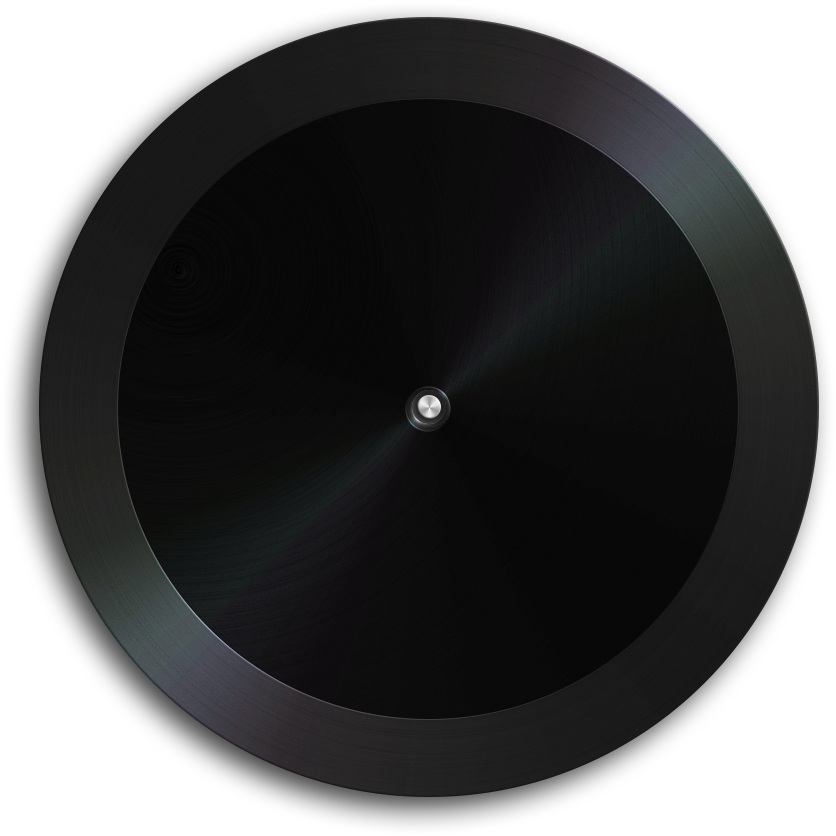
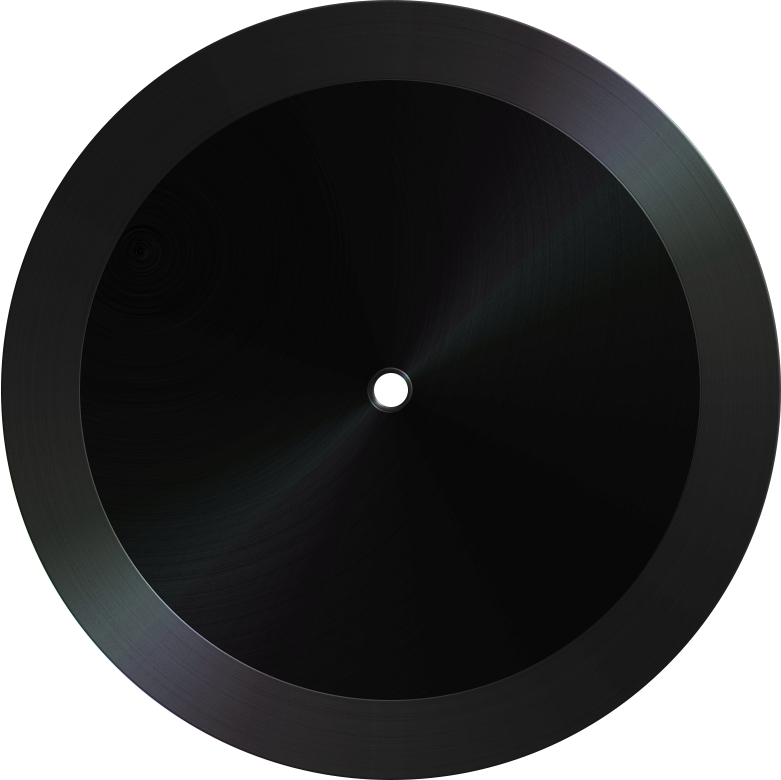
界面 - [ update Tips & MusicView ]

diff --git a/src/renderer/views/SongView.vue b/src/renderer/views/SongView.vue
@@ -8,24 +8,26 @@
 
       <div style="width:40%; height:100%; float:left; position:relative;">
         <div style="width:100%; margin:38px 0 28px; box-sizing:border-box;">
-          <div :class="{'active' : $store.state.Music.playStatus}" class="disk-bg">
-            <img v-lazy="'http://p1.music.126.net/Qgrn5ptCMLdd9MAngNWURA==/17868163463382870.jpg?param=130y130'" class="glass-bg play-list-img" />
+          <div class="box-show" style="width:320px; height:320px; left:-8px; margin:12px 28px; display:inline-block; border-radius:50%;">
+            <div :class="{'active' : $store.state.Music.playStatus}" class="disk-bg">
+              <img v-lazy="'http://p1.music.126.net/Qgrn5ptCMLdd9MAngNWURA==/17868163463382870.jpg?param=130y130'" class="glass-bg play-list-img" />
+            </div>
           </div>
         </div>
         <div :class="{'active' : !$store.state.Music.playStatus}" id="playPointer">
           <img src="../../../static/images/default/Neo-Player.png" style="width:100%;"/>
         </div>
-        <div style="width:100%; text-align:center;">
-          <div class="super-btn-out" style="width:68px; height:29px; margin:10px 1px 0;">
+        <div style="width:88%; text-align:center;">
+          <div class="super-btn-out" style="width:68px; height:29px; margin:10px 8px 0;">
             <span class="super-btn-in mh-if non-colloection" style="width:60px; height:20px; line-height:21px;"> 喜欢</span>
           </div>
-          <div @click="showModal('AddAlbum')" class="super-btn-out" style="width:68px; height:29px; margin:10px 1px 0;">
+          <div @click="showModal('AddAlbum')" class="super-btn-out" style="width:68px; height:29px; margin:10px 8px 0;">
             <span class="super-btn-in mh-if collection-music" style="width:60px; height:20px; line-height:21px;"> 收藏</span>
           </div>
-          <div class="super-btn-out" style="width:68px; height:29px; margin:10px 1px 0;">
+          <div class="super-btn-out" style="width:68px; height:29px; margin:10px 8px 0;">
             <span class="super-btn-in mh-if download" style="width:60px; height:20px; line-height:21px;"> 下载</span>
           </div>
-          <div @click="showModal('Share')" class="super-btn-out" style="width:68px; height:29px; margin:10px 1px 0;">
+          <div @click="showModal('Share')" class="super-btn-out" style="width:68px; height:29px; margin:10px 8px 0;">
             <span class="super-btn-in mh-if share" style="width:60px; height:20px; line-height:21px;"> 分享</span>
           </div>
         </div>
@@ -36,7 +38,7 @@
           <p style="font-size:22px;">The Name of the Song</p>
           <p style="line-height:1.6em; font-size:15px;">sdvsdvsdbdfbhusibhfdbukvsodvsdvsdrhukvfsdbhifsdvbuigesdd</p>
         </div>
-        <div style="width:100%; height:438px; padding:38px 52px 38px 68px; box-sizing:border-box; background:url(../../../static/images/default/lyric-bg.png) no-repeat; background-size:100% 100%;">
+        <div style="width:100%; height:438px; padding:38px 62px 38px 68px; box-sizing:border-box; background:url(../../../static/images/default/lyric-bg.png) no-repeat; background-size:100% 100%;">
           <div style="width:100%; height:100%; overflow:auto;">
             <div style="width:100%; height:1888px; background:lightgreen"></div>
           </div>
@@ -96,21 +98,20 @@ export default {
 
 <style scoped>
   #playPointer {
-    width:138px; top:18px; left:-3px; display:inline-block; position:absolute;
+    width:138px; top:8px; left:-23px; display:inline-block; position:absolute;
     transform-origin:12.8px 12.8px;
     transform:rotate(-13deg);
-    -webkit-transition: transform 0.38s;
+    transition: transform 0.38s;
   }
   #playPointer.active {
     transform:rotate(-38deg);
   }
 
   .play-list-img {
-    width:70%; height:70%; margin:44px 52px; border-radius:50%;
-    display:inline-block;
+    width:70%; height:70%; top:50%; left:50%; position:absolute; border-radius:50%; transform:translate(-50%, -50%);
   }
   .disk-bg {
-    width:320px; height:320px; left:-8px; margin:12px 28px; display:inline-block; background:url(../../../static/images/default/disk.png) no-repeat; background-size:100% 100%; border-radius:50%;
+    width:100%; height:100%; position:relative; background:url(../../../static/images/default/disk.png) no-repeat; background-size:100% 100%; border-radius:50%;
   }
   .disk-bg.active {
     animation: goCircle 18s infinite linear; /*匀速 循环*/

diff --git a/src/renderer/components/Tips/Tips.vue b/src/renderer/components/Tips/Tips.vue
@@ -1,10 +1,12 @@
 <template>
-  <div class="glass-bg">
-    <p style="line-height:35px;">
+  <div :class="$store.state.Tips.tipsType" class="glass-bg box-show">
+    <div id="tipsIcon">
       <i class="mh-if gear"></i>
+    </div>
+    <p style="display:inline-block; line-height:36px;">
       <span style="color:#AAA; letter-spacing:1.3px;">{{ $store.state.Tips.tips }}</span>
     </p>
-    <i @click="closeTips">×</i>
+    <i @click="closeTips" class="close-button">×</i>
   </div>
 </template>
 
@@ -14,7 +16,7 @@ export default {
 
   methods: {
     closeTips () {
-      this.$store.commit('SHOW_TIPS')
+      this.$store.commit('SHOW_TIPS', {})
     }
   }
 }
@@ -22,16 +24,30 @@ export default {
 
 <style scoped>
   div.glass-bg {
-    height:38px; top:68px; right:18px; padding:0 25px 0 12px; position:fixed; z-index:9999; box-sizing:border-box;
+    height:38px; top:68px; right:18px; padding:0 28px 0 0; position:fixed; z-index:9999; box-sizing:border-box;
+  }
+  div.glass-bg.info {
     box-shadow:0 0 2px #00d8ff, inset 0 2px 1px -1px rgba(255, 255, 255, 0.2), inset 0 -2px 1px -1px rgba(0, 0, 0, 0.2), 0 12px 12px rgba(0, 0, 0, 0.5), 0 4px 6px rgba(0, 0, 0, 0.3), inset 0 0 0 1px #272727;
   }
-
-  .mh-if.gear {
-    margin-right:5px; font-size:18px; color:#00d8ff;
+  div.glass-bg.warning {
+    box-shadow:0 0 2px #FF92C3, inset 0 2px 1px -1px rgba(255, 255, 255, 0.2), inset 0 -2px 1px -1px rgba(0, 0, 0, 0.2), 0 12px 12px rgba(0, 0, 0, 0.5), 0 4px 6px rgba(0, 0, 0, 0.3), inset 0 0 0 1px #272727;
   }
 
-  div > i {
-    top:-3px; right:1px; position:absolute; font-size:23px; color:#AAA; cursor:pointer;
+  #tipsIcon {
+    width:38px; height:38px; margin-right:8px; display:inline-block; border-radius:4px 4px 6px 4px; line-height:37px; text-align:center; box-shadow:inset -2px 0 2px -2px #444, 2px 0 2px -2px #000;
+  }
+  #tipsIcon > .gear {
+    font-size:18px;
+  }
+  .glass-bg.info #tipsIcon > .gear {
+    color:#00d8ff;
+  }
+  .glass-bg.warning #tipsIcon > .gear {
+    color:#FF92C3;
+  }
+
+  div > i.close-button {
+    top:-3px; right:2px; position:absolute; font-size:23px; color:#AAA; cursor:pointer;
   }
   div > i:hover {
     color:#EEE;

diff --git a/src/renderer/components/Comment/CommentCell.vue b/src/renderer/components/Comment/CommentCell.vue
@@ -1,5 +1,5 @@
 <template>
-  <div style="color:#999; padding:13px 0 16px 68px; position:relative;">
+  <div class="comment-cell" style="color:#999; padding:13px 0 16px 68px; position:relative;">
     <router-link class="box-show" to="/user" style="width:40px; height:38px; top:16px; left:16px; padding:3px; position:absolute;">
       <img v-lazy="'http://p2.music.126.net/kaISxJU3yP0Qvw6H_vUyAQ==/18984167765401316.jpg?param=80y80'" style="width:100%; height:100%;"/>
     </router-link>
@@ -12,13 +12,16 @@
       <p style="margin-top:10px; text-align:right; font-size:13px;">
         <span style="float:left; font-size:15px;">2018-09-30 12:12</span>
 
+        <span class="repost-button" style="padding:0 13px; border-right:1px solid #383838;">
+          <span style="cursor:pointer;">举报</span>
+        </span>
         <span style="padding:0 13px; border-right:1px solid #383838;">
           <span @click="changeLike" style="cursor:pointer;"><i class="mh-if add-collection" style="margin-right:3px;"></i>123132</span>
         </span>
         <span style="padding:0 13px; border-right:1px solid #383838;">
           <span @click="showModal('Share')" style="cursor:pointer;">分享</span>
         </span>
-        <span style="padding:0 13px;">
+        <span class="reply-button" style="padding:0 13px;">
           <span @click="replyComment" style="cursor:pointer;">回复</span>
         </span>
       </p>
@@ -47,5 +50,14 @@ export default {
 </script>
 
 <style scoped>
+  .comment-cell .repost-button {
+    display:none;
+  }
+  .comment-cell:hover .repost-button {
+    display:inline-block;
+  }
 
+  .reply-button:hover {
+    color: #00d8ff;
+  }
 </style>

diff --git a/src/renderer/components/Modal/type/NewAlbum.vue b/src/renderer/components/Modal/type/NewAlbum.vue
@@ -38,12 +38,18 @@ export default {
   methods: {
     newAlbum () {
       if (this.albumName === '') {
-        this.$store.commit('SHOW_TIPS', '请输入歌单名')
+        this.$store.commit('SHOW_TIPS', {
+          msg: '请输入歌单名',
+          type: 'info'
+        })
         return false
       }
 
       this.closeModal()
-      this.$store.commit('SHOW_TIPS', '已创建新歌单')
+      this.$store.commit('SHOW_TIPS', {
+        msg: '已创建新歌单',
+        type: 'info'
+      })
     },
 
     closeModal () {

diff --git a/src/renderer/store/modules/Tips.js b/src/renderer/store/modules/Tips.js
@@ -1,5 +1,6 @@
 const state = {
-  tips: ''
+  tips: '',
+  tipsType: 'info'
 }
 
 const mutations = {
@@ -7,9 +8,10 @@ const mutations = {
    * 展示 / 关闭 操作提示框
    * @param state
    */
-  SHOW_TIPS (state, str = '') {
-    state.tips = str
-    if (str !== '') {
+  SHOW_TIPS (state, tipsObj) {
+    state.tips = tipsObj.msg
+    state.tipsType = tipsObj.type
+    if (tipsObj.msg !== '') {
       clearTimeout(state.timer)
       state.timer = setTimeout(() => {
         state.tips = ''

diff --git a/src/renderer/components/TopMenu/ShowContentType/UserOperation.vue b/src/renderer/components/TopMenu/ShowContentType/UserOperation.vue
@@ -78,7 +78,10 @@ export default {
   methods: {
     userSignIn () {
       this.$parent.closeShowContent()
-      this.$store.commit('SHOW_TIPS', '签到成功，积分+2')
+      this.$store.commit('SHOW_TIPS', {
+        msg: '签到成功，积分+2',
+        type: 'info'
+      })
     },
 
     openBrowser (url = '') {

diff --git a/src/renderer/components/Modal/type/AddAlbum.vue b/src/renderer/components/Modal/type/AddAlbum.vue
@@ -39,7 +39,10 @@ export default {
 
     addToThisPlayList () {
       this.$parent.closeModal()
-      this.$store.commit('SHOW_TIPS', '已收藏到歌单')
+      this.$store.commit('SHOW_TIPS', {
+        msg: '已收藏到歌单',
+        type: 'info'
+      })
     }
   }
 }
